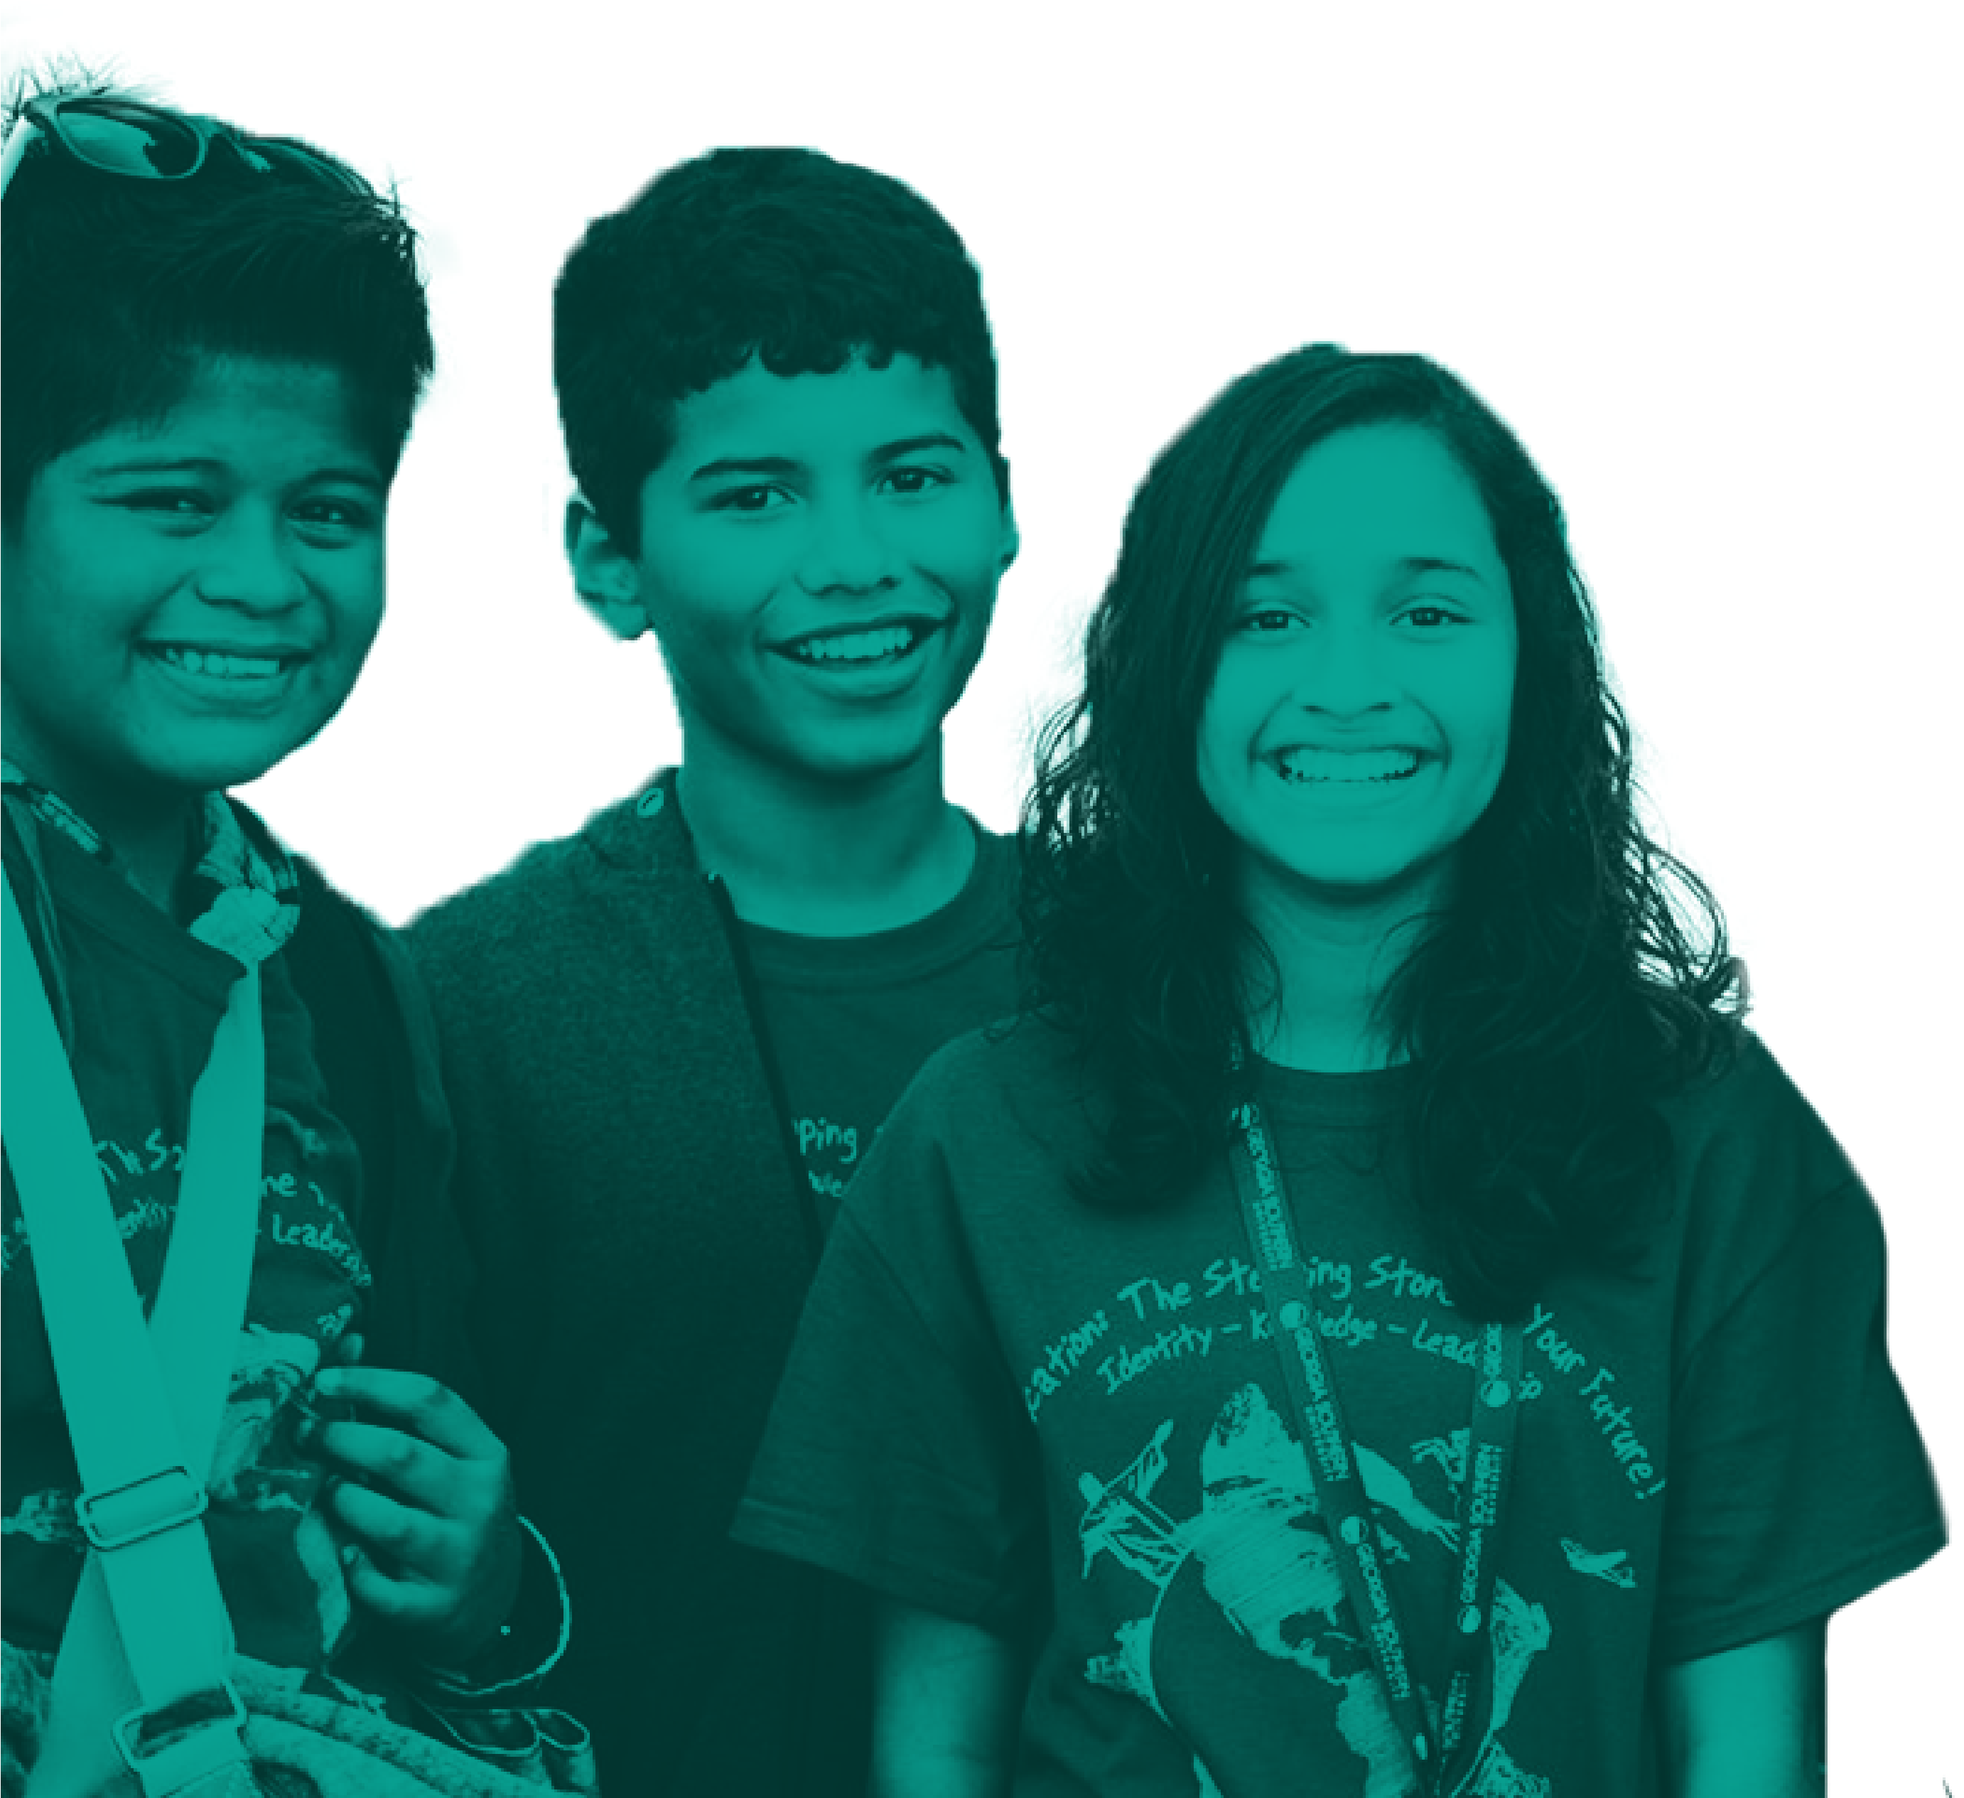
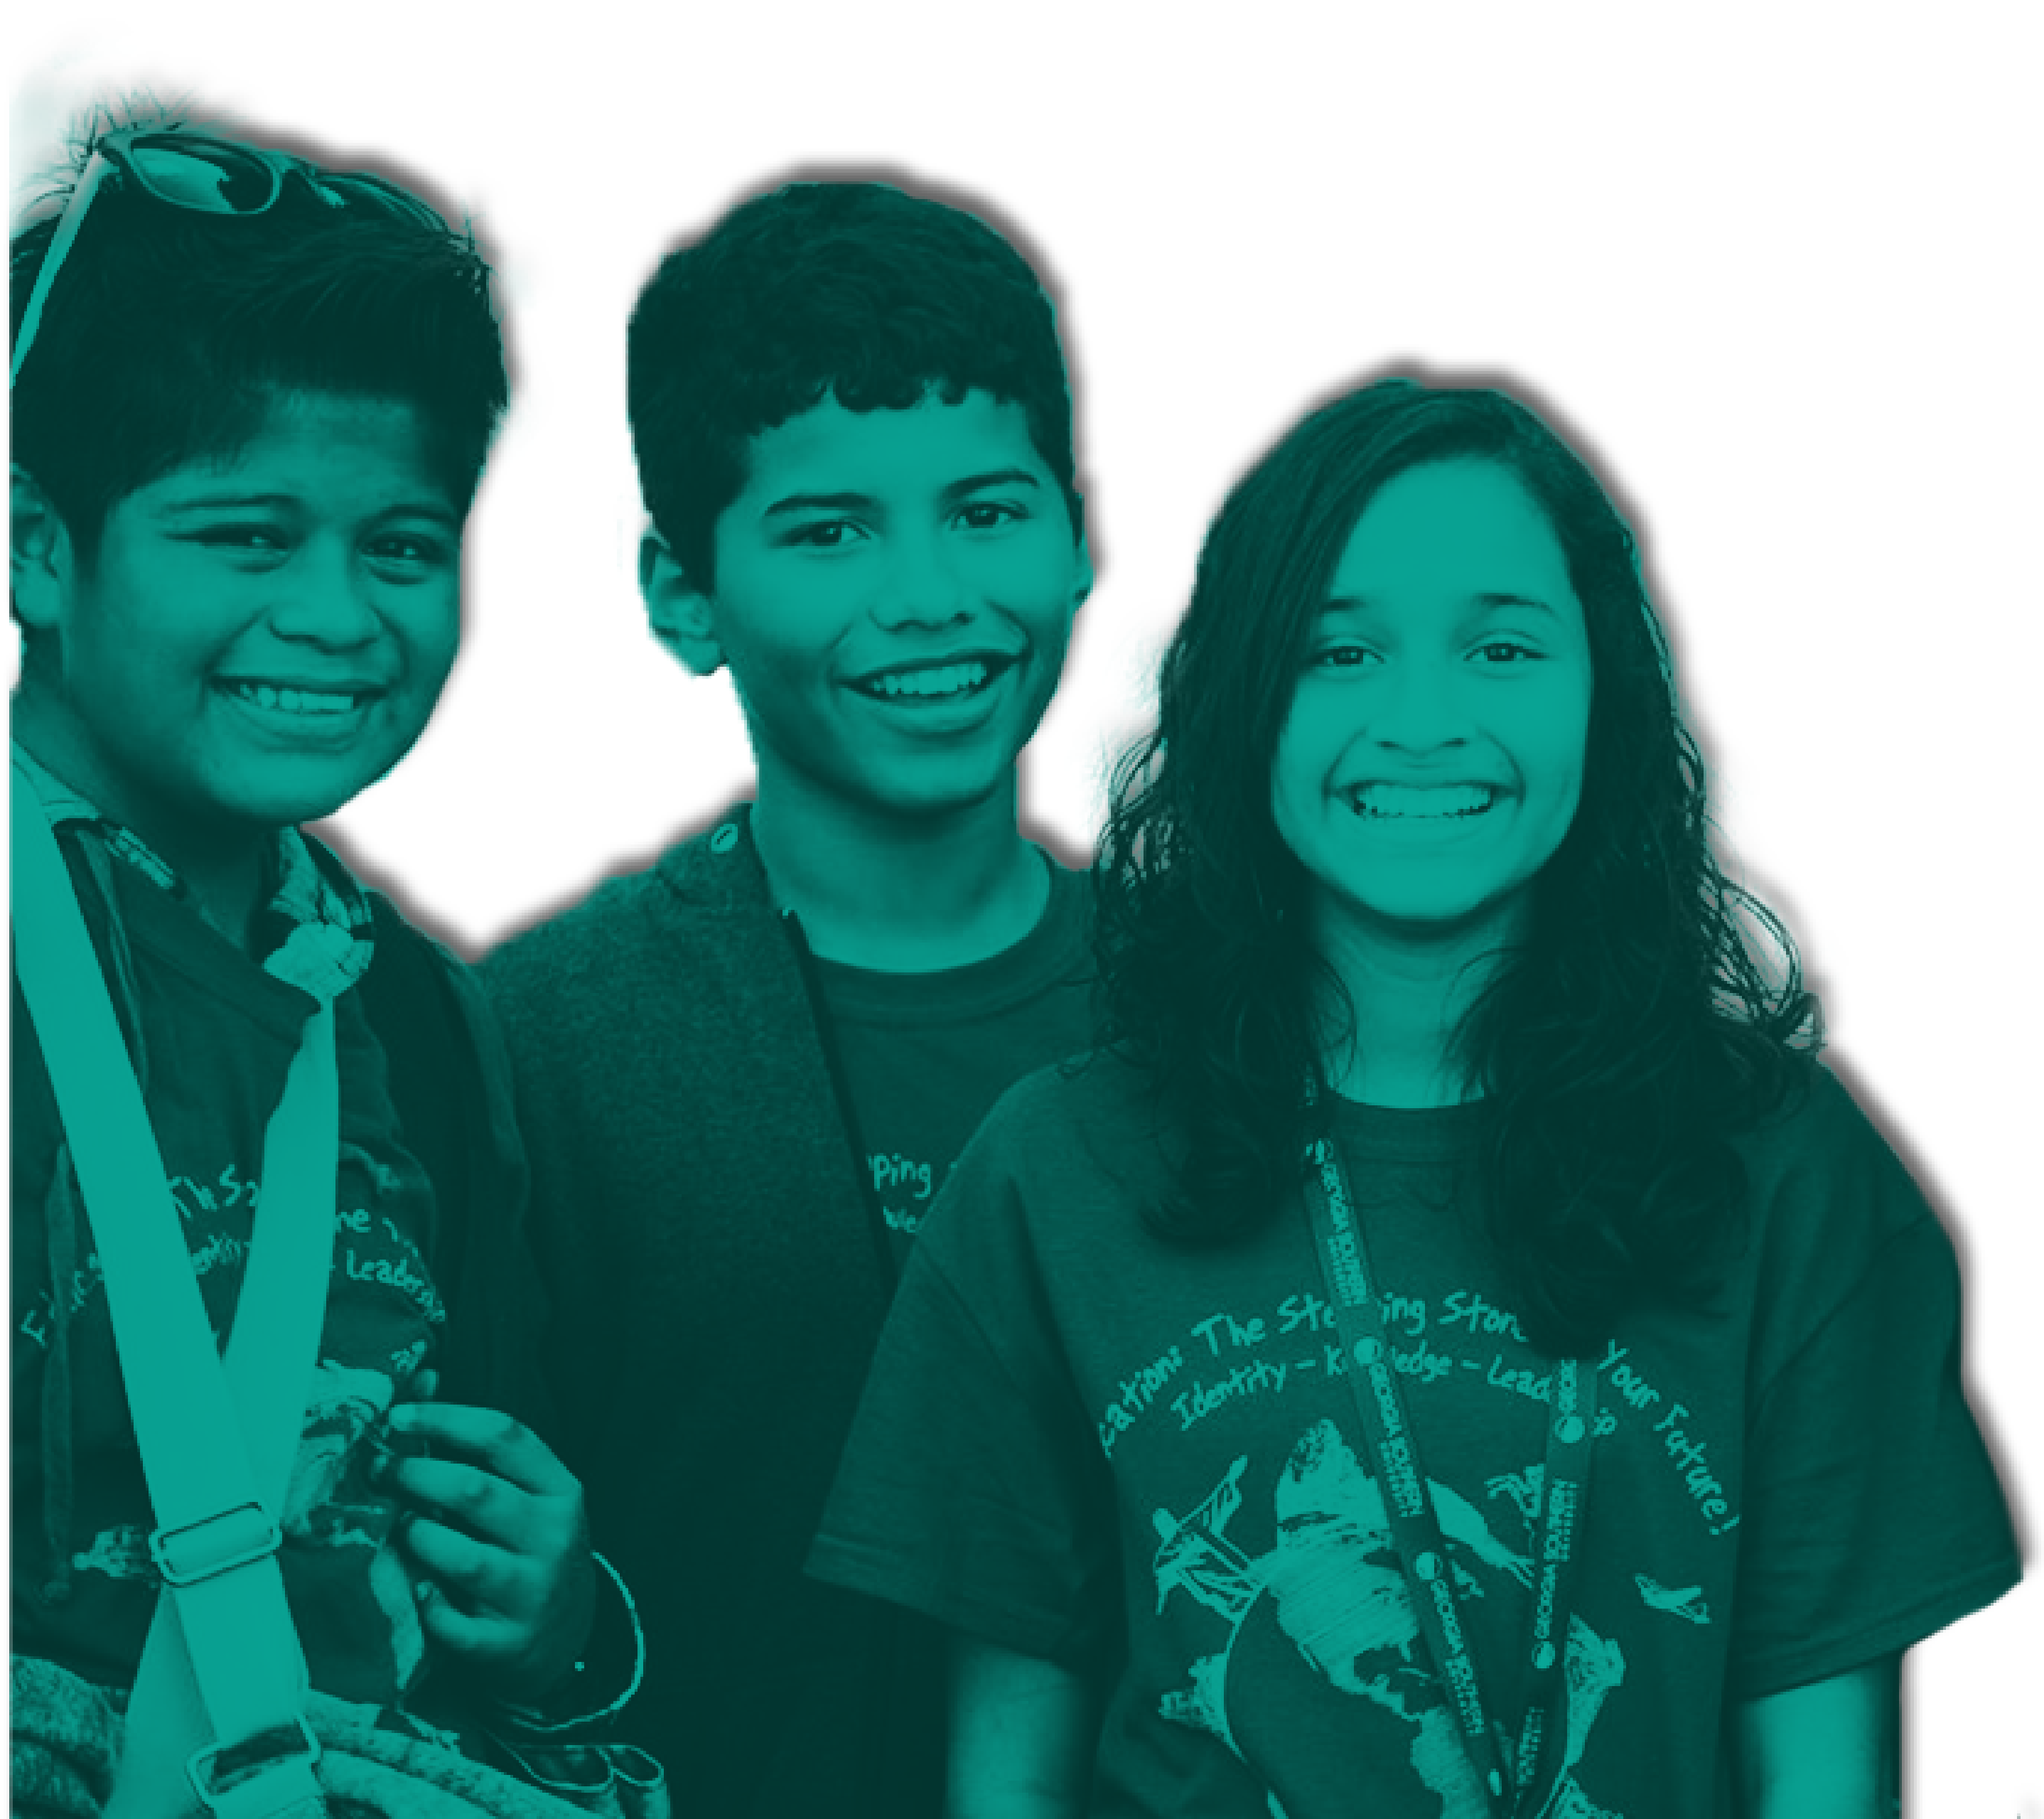
Replace beginning graphics.

diff --git a/src/stylesheets/app.css b/src/stylesheets/app.css
@@ -181,7 +181,7 @@ audio::-webkit-media-controls-current-time-display {opacity: 0;}
 .IntroKids {
   height: 35%;
   width: 35%;
-  margin-top: -.3%;
+  margin-top: .7%;
 }
 
 .IntroButton {
